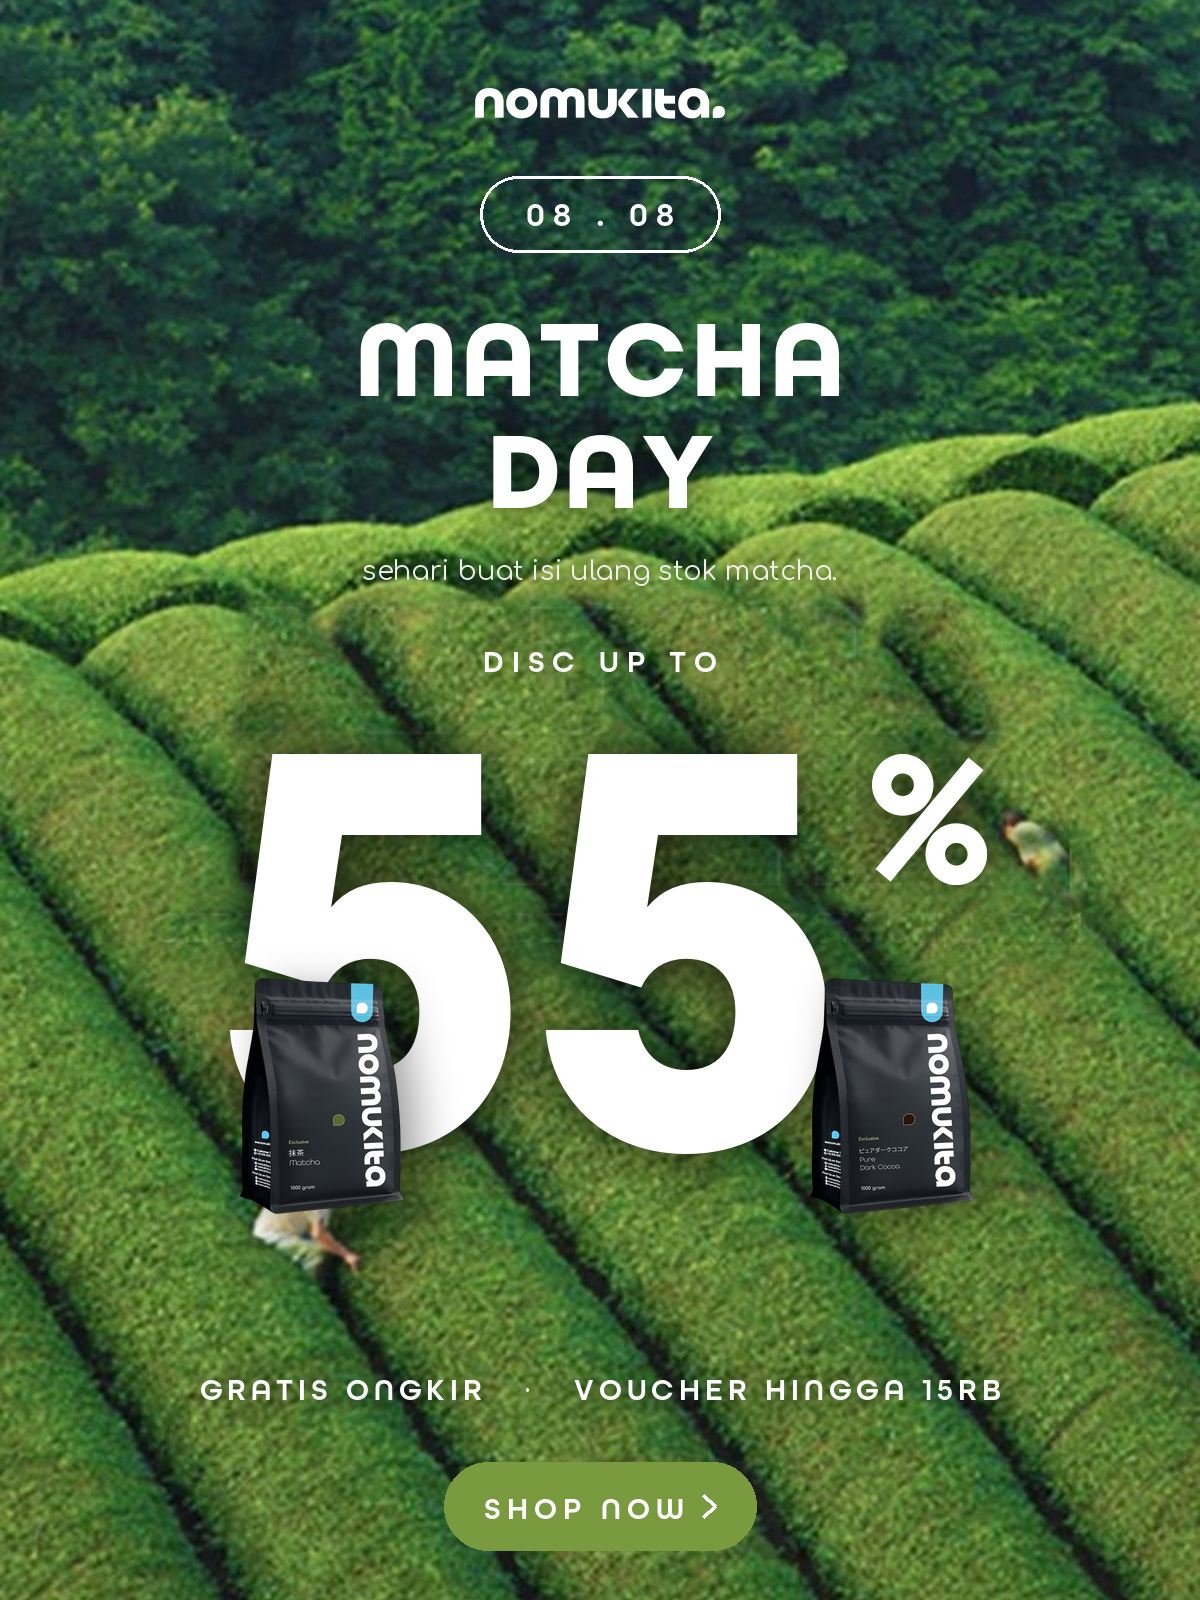
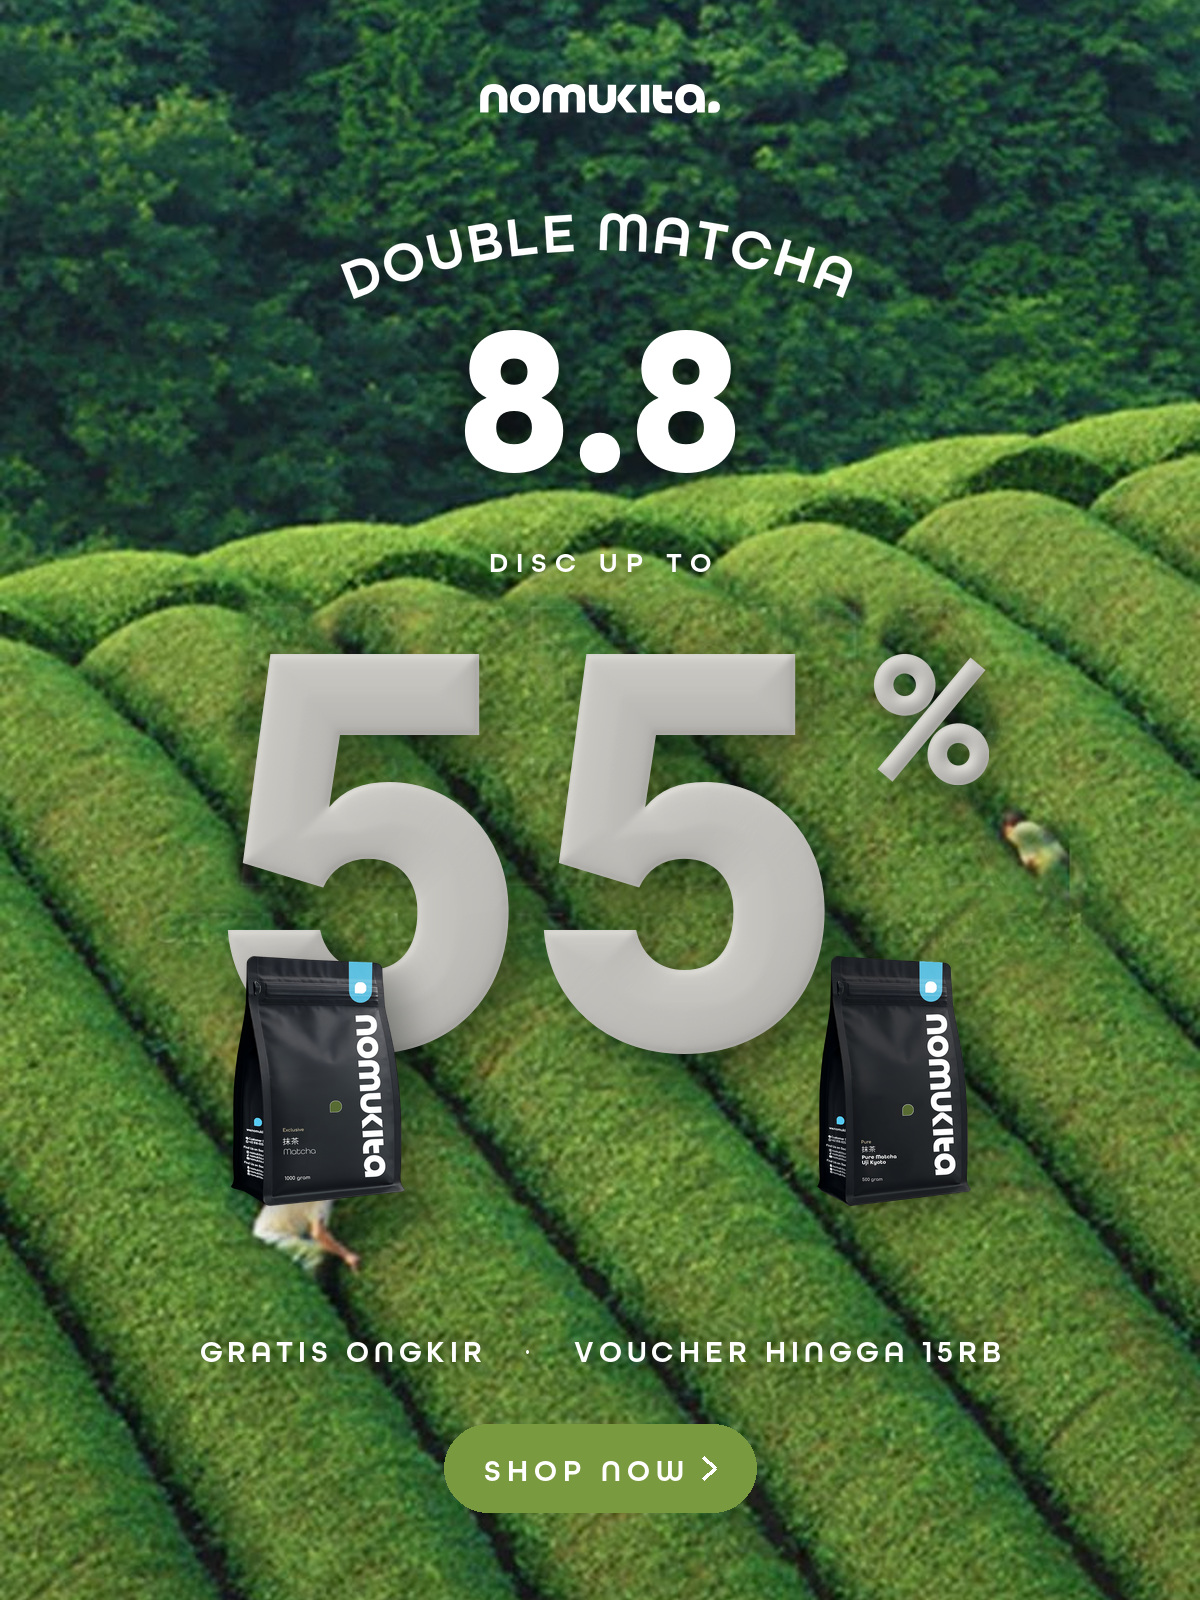
Inflate the 8.8 numeral and rework its hierarchy
Six changes, all the client's.

The percentage is now a real 3D form, not a flat one. puff() takes a glyph mask,
builds a height field from a distance transform — the mask eroded a pixel at a
time, each pass adding to an accumulator — maps it through a dome profile and
shades it Lambert plus a tight specular. Blurring the mask is the obvious
shortcut and it was tried first: the blur saturates anywhere further from an edge
than its radius, so the middle of a 90-pixel stroke came out flat and the glyph
read as embossed. The distance field keeps rising to the stroke's centre, which
is what makes it look inflated.

8.8 becomes the second voice at 210, sitting under a headline that now arcs, as
the reference's does — which is also why the two need no rule or box to group
them. The headline itself is DOUBLE MATCHA: it earns the 8.8 rather than
restating it, and it is not the Matcha Day the client turned down.

Both packs are matcha now, the subline is gone, and the numeral drops onto its
own shadow.

Claude-Session: https://claude.ai/code/session_01LqXMhsXVUSTDGQKyLmseEg

diff --git a/banners/build.py b/banners/build.py
@@ -2,7 +2,7 @@
 """Build the Nomukita store banners."""
 
 from pathlib import Path
-from PIL import Image, ImageDraw, ImageFilter
+from PIL import Image, ImageChops, ImageDraw, ImageFilter
 
 import nomukita as N
 from nomukita import W, H, MARGIN, BONE, CHARCOAL, MATCHA, COCOA, STEEL, RULE
@@ -647,16 +647,9 @@ E88_CROP = (0, 300, 1200, 1900)
 def eight_eight():
     """The 8.8 banner, on the typographic structure of the client's reference.
 
-    That reference runs date pill, two-line display headline, subline, a small
-    "up to", then an enormous numeral with product laid over it. Everything here
-    follows that order; what changes is the register — matcha and Japan-minimal
-    in place of the original's beauty-pink, so the type is bone white on the
-    terrace rather than glittered, and the products over the numeral are the
-    client's own pouches.
-
-    The photograph splits the work: its forest canopy holds median 52 down to
-    y 420 and carries the headline unaided, while the terraces below run 88 to
-    117 and take a halo under the numeral.
+    Hierarchy runs percentage, then date, then headline — the client's order.
+    The numeral is inflated rather than flat, as the reference's is; the headline
+    arcs, as the reference's does; and both packs are matcha.
     """
     c = N.canvas()
     ref = Image.open(ILLUS3 / 'e88-bg.jpg').convert('RGB')
@@ -665,49 +658,47 @@ def eight_eight():
     d = ImageDraw.Draw(c)
     white = (255, 255, 255)
 
-    N.logo(c, y=88, width=250, colour='#FFFFFF')
+    N.logo(c, y=84, width=240, colour='#FFFFFF')
 
-    # date pill, as the reference opens
-    lab, fs, tr = '08 . 08', 34, 8
-    lw = N.text_width(lab, fs, demi=True, tracking=tr)
-    pw, ph = lw + 2 * 46, 76
-    px_, py = (W - pw) / 2, 176
-    d.rounded_rectangle([px_, py, px_ + pw, py + ph], radius=ph // 2,
-                        outline=white, width=3)
-    N.text(d, (W / 2, py + 50), lab, fs, white, demi=True, tracking=tr,
+    # The headline curves over the date, which is the reference's device and the
+    # reason it needs no rule or box to group the two. "Double" earns the 8.8
+    # rather than restating it.
+    head = Image.new('RGBA', c.size, (0, 0, 0, 0))
+    N.arc_text(head, (W / 2, 232 + 660), 'DOUBLE MATCHA', 56, white, 660,
+               demi=True, tracking=4)
+    N.halo(c, head, strength=0.7, blur=16)
+
+    date = Image.new('RGBA', c.size, (0, 0, 0, 0))
+    N.text(ImageDraw.Draw(date), (W / 2, 470), '8.8', 210, white, tracking=2,
            align='center')
+    N.halo(c, date, strength=0.8, blur=22)
 
-    # MATCHA clears the canopy at a 90th percentile of 76 and needs nothing.
-    # Everything below it crosses the terrace edge, where that figure runs 132
-    # to 160, so those three carry halos scaled to what each actually sits on.
-    N.text(d, (W / 2, 396), 'MATCHA', 110, white, tracking=3, align='center')
+    lab = Image.new('RGBA', c.size, (0, 0, 0, 0))
+    N.text(ImageDraw.Draw(lab), (W / 2, 572), 'DISC UP TO', 28, white,
+           demi=True, tracking=8, align='center')
+    N.halo(c, lab, strength=0.8, blur=14)
 
-    head2 = Image.new('RGBA', c.size, (0, 0, 0, 0))
-    hd2 = ImageDraw.Draw(head2)
-    N.text(hd2, (W / 2, 508), 'DAY', 110, white, tracking=3, align='center')
-    N.body(hd2, (W / 2, 556), ['sehari buat isi ulang stok matcha.'], 27,
-           (240, 239, 234), align='center')
-    N.text(hd2, (W / 2, 672), 'DISC UP TO', 30, white, demi=True, tracking=8,
-           align='center')
-    N.halo(c, head2, strength=0.85, blur=18)
-
-    # The numeral is the hero, as it is in the reference, where the products sit
-    # over roughly a third of its height and never bury it. A first pass at 400
-    # with three 300-tall packs across it left the number unreadable, so it goes
-    # to 600 — cap 392 — the packs come down to 236, and only two flank it.
+    # The numeral is inflated with a distance-transform dome and dropped onto its
+    # own shadow, which is what the reference's puffed figures do.
     size, ps = 600, 200
     cap = N.arg(size).getbbox('H')[3] - N.arg(size).getbbox('H')[1]
     pcap = N.arg(ps).getbbox('H')[3] - N.arg(ps).getbbox('H')[1]
-    total = N.text_width('55', size) + 26 + pcap * N.PERCENT_WIDTH
-    num = Image.new('RGBA', c.size, (0, 0, 0, 0))
-    nd = ImageDraw.Draw(num)
+    total = N.text_width('55', size) + 30 + pcap * N.PERCENT_WIDTH
+    flat = Image.new('L', c.size, 0)
+    fd = ImageDraw.Draw(flat)
     x0 = (W - total) / 2
-    x = x0 + N.text(nd, (x0, 1146), '55', size, white)
-    N.percent(num, x + 26, 1146 - cap + pcap, pcap, white)
-    N.halo(c, num, strength=0.85, blur=28)
+    x = x0 + N.text(fd, (x0, 1046), '55', size, 255)
+    pc = Image.new('RGBA', c.size, (0, 0, 0, 0))
+    N.percent(pc, x + 30, 1046 - cap + pcap, pcap, (255, 255, 255))
+    flat = ImageChops.lighter(flat, pc.split()[3])
 
-    for name, h, cx, base in (('matcha-1000', 236, 322, 1214),
-                              ('cocoa', 236, 892, 1214)):
+    shadow = Image.new('RGBA', c.size, (0, 0, 0, 0))
+    shadow.paste((10, 22, 8, 255), (18, 22), flat.point(lambda v: min(v, 132)))
+    c.alpha_composite(shadow.filter(ImageFilter.GaussianBlur(26)))
+    c.alpha_composite(N.puff(flat, (250, 248, 242)))
+
+    for name, h, cx, base in (('matcha-1000', 250, 318, 1206),
+                              ('uji-500', 250, 894, 1206)):
         pack = Image.open(PACK / f'{name}.png').convert('RGBA')
         pack = pack.crop(pack.getbbox())
         pack = pack.resize((round(h * pack.width / pack.height), h), Image.LANCZOS)
@@ -718,9 +709,8 @@ def eight_eight():
         c.alpha_composite(sh.filter(ImageFilter.GaussianBlur(20)))
         c.alpha_composite(pack, (px2, py2))
 
-    # the two smaller offers, on one line as on the discount banner
     offers = Image.new('RGBA', c.size, (0, 0, 0, 0))
-    N.text(ImageDraw.Draw(offers), (W / 2, 1400),
+    N.text(ImageDraw.Draw(offers), (W / 2, 1362),
            'GRATIS ONGKIR   ·   VOUCHER HINGGA 15RB', 30, white, demi=True,
            tracking=5, align='center')
     N.halo(c, offers, strength=0.75, blur=16)
@@ -728,7 +718,7 @@ def eight_eight():
     label, fs2, tr2 = 'SHOP NOW', 30, 6
     lw2 = N.text_width(label, fs2, demi=True, tracking=tr2)
     pw2, ph2 = lw2 + 40 + 32 + 40, 88
-    bx, by = (W - pw2) / 2, 1462
+    bx, by = (W - pw2) / 2, 1424
     d.rounded_rectangle([bx, by, bx + pw2, by + ph2], radius=ph2 // 2,
                         fill=MATCHA + (255,))
     N.text(d, (bx + 40, by + 57), label, fs2, white, demi=True, tracking=tr2)

diff --git a/banners/nomukita.py b/banners/nomukita.py
@@ -920,3 +920,70 @@ def body_rich(draw, xy, lines, size, fill, leading=1.55, weight=400, bold=700):
                 draw.text((x, y + i * step), text, font=f, fill=fill, anchor='la')
                 x += f.getlength(text)
     return len(lines) * step
+
+
+def puff(mask, colour, steps=46, light=(-0.55, -0.72), ambient=0.60,
+         spec=0.9, shine=9, relief=2.6):
+    """Inflate a flat glyph mask into the soft 3D form the client's reference
+    uses for its numerals.
+
+    The height comes from a distance transform — the mask eroded a pixel at a
+    time, each pass adding to an accumulator — mapped through a dome profile.
+    Blurring the mask instead is the obvious shortcut and it fails: the blur
+    saturates anywhere further from an edge than its radius, so the middle of a
+    stroke comes out flat and the glyph reads as embossed rather than inflated.
+    Steps should reach about half the stroke width.
+
+    Normals are taken from that field, and the shading is Lambert plus a tight
+    specular.
+    """
+    from PIL import ImageChops, ImageFilter
+    import math
+
+    bbox = mask.getbbox()
+    if bbox is None:
+        return Image.new('RGBA', mask.size, (0, 0, 0, 0))
+    pad = 4
+    box = (max(0, bbox[0] - pad), max(0, bbox[1] - pad),
+           min(mask.width, bbox[2] + pad), min(mask.height, bbox[3] + pad))
+    a = mask.crop(box)
+    w, h_ = a.size
+
+    inc = max(1, 255 // steps)
+    dist = Image.new('L', (w, h_), 0)
+    cur = a
+    for _ in range(steps):
+        cur = cur.filter(ImageFilter.MinFilter(3))
+        dist = ImageChops.add(dist, cur.point(lambda v: inc if v > 127 else 0))
+
+    # dome: steep at the rim, flattening toward the crown
+    dome = dist.point(lambda v: round(255 * math.sqrt(max(0.0, 1 - (1 - v / 255) ** 2))))
+    dome = dome.filter(ImageFilter.GaussianBlur(2.5))
+    hp, ap = dome.load(), a.load()
+
+    lx, ly = light
+    lz = math.sqrt(max(0.0, 1 - lx * lx - ly * ly))
+    out = Image.new('RGBA', (w, h_), (0, 0, 0, 0))
+    op = out.load()
+    r0, g0, b0 = colour[:3]
+
+    for y in range(1, h_ - 1):
+        for x in range(1, w - 1):
+            alpha = ap[x, y]
+            if not alpha:
+                continue
+            gx = (hp[x - 1, y] - hp[x + 1, y]) / 255.0
+            gy = (hp[x, y - 1] - hp[x, y + 1]) / 255.0
+            nx, ny = gx * relief, gy * relief
+            inv = 1.0 / math.sqrt(nx * nx + ny * ny + 1.0)
+            nx, ny, nz = nx * inv, ny * inv, inv
+            lam = max(0.0, nx * lx + ny * ly + nz * lz)
+            shade = ambient + (1 - ambient) * lam
+            hl = spec * lam ** shine
+            op[x, y] = (min(255, round(r0 * shade + 255 * hl)),
+                        min(255, round(g0 * shade + 255 * hl)),
+                        min(255, round(b0 * shade + 255 * hl)), alpha)
+
+    full = Image.new('RGBA', mask.size, (0, 0, 0, 0))
+    full.paste(out, (box[0], box[1]))
+    return full
